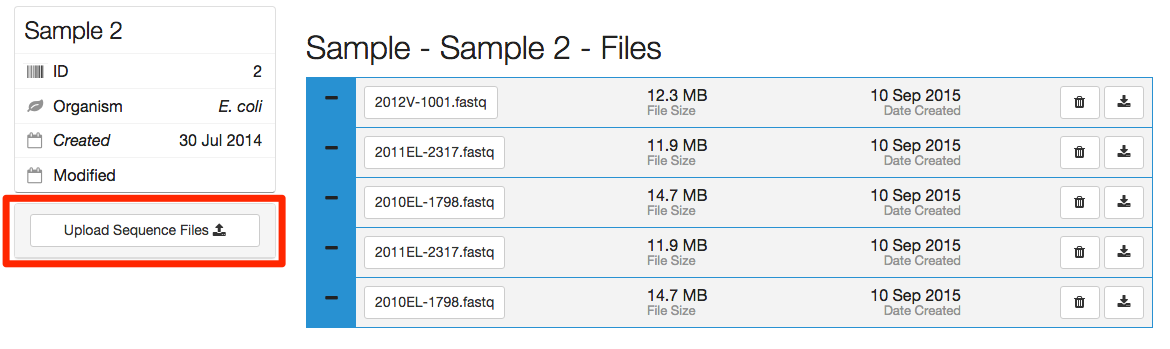
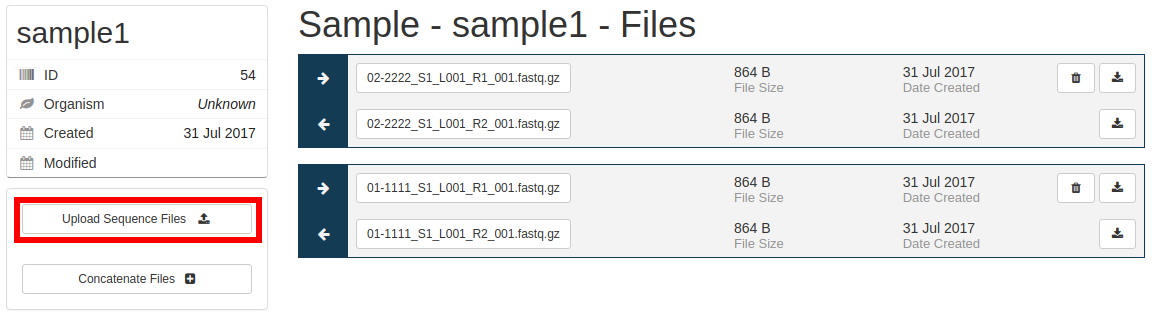
added concatenation doc

diff --git a/doc/user/user/samples/index.md b/doc/user/user/samples/index.md
@@ -66,6 +66,23 @@ If you need to delete a sequence file from IRIDA, you can do so by clicking on t
 
 You can only delete a sequence file from a sample if you have the project <img src="images/manager-icon.png" class="inline" alt="Manager role icon."> **Manager** role on the project.
 
+#### Concatenating sequence files
+
+In cases where a top-up run or any other additional data is added to a sample, you may want to combine the sequence files into a single *concatenated* file.  IRIDA allows you to do this under the *Concatenate Files* page.
+
+![Concatenate link]({{ site.baseurl }}/images/tutorials/common/samples/concatenate-link.png)
+
+In the concatenation page you must select 2 or more sequence file objects **of the same type** to concatenate.  If you have selected a collection of files which cannot be concatenated, a warning will be displayed.
+
+![Concatenate page]({{ site.baseurl }}/images/tutorials/common/samples/concatenate-page.png)
+
+Once you have selected your files to concatenate, you have the following options:
+
+* *New filename* - This will set the base name of the new concatenated files.  For paired-end data a modifier will be appended to determine the forward an reverse files.
+* *Remove originals* - This will remove the original files from the sample, leaving only the new concatenated file.
+
+Once you have selected your files and selected your options, click *Submit* to begin the concatenation.  This may take a while, so you should stay on this page until the process is complete.  Once your files are concatenated, you will be redirected back to the sample-files page.
+
 #### Viewing automated assemblies
 
 If the project manager has enabled automated assemblies for uploaded data an assembly may be shown for a sequence file.
